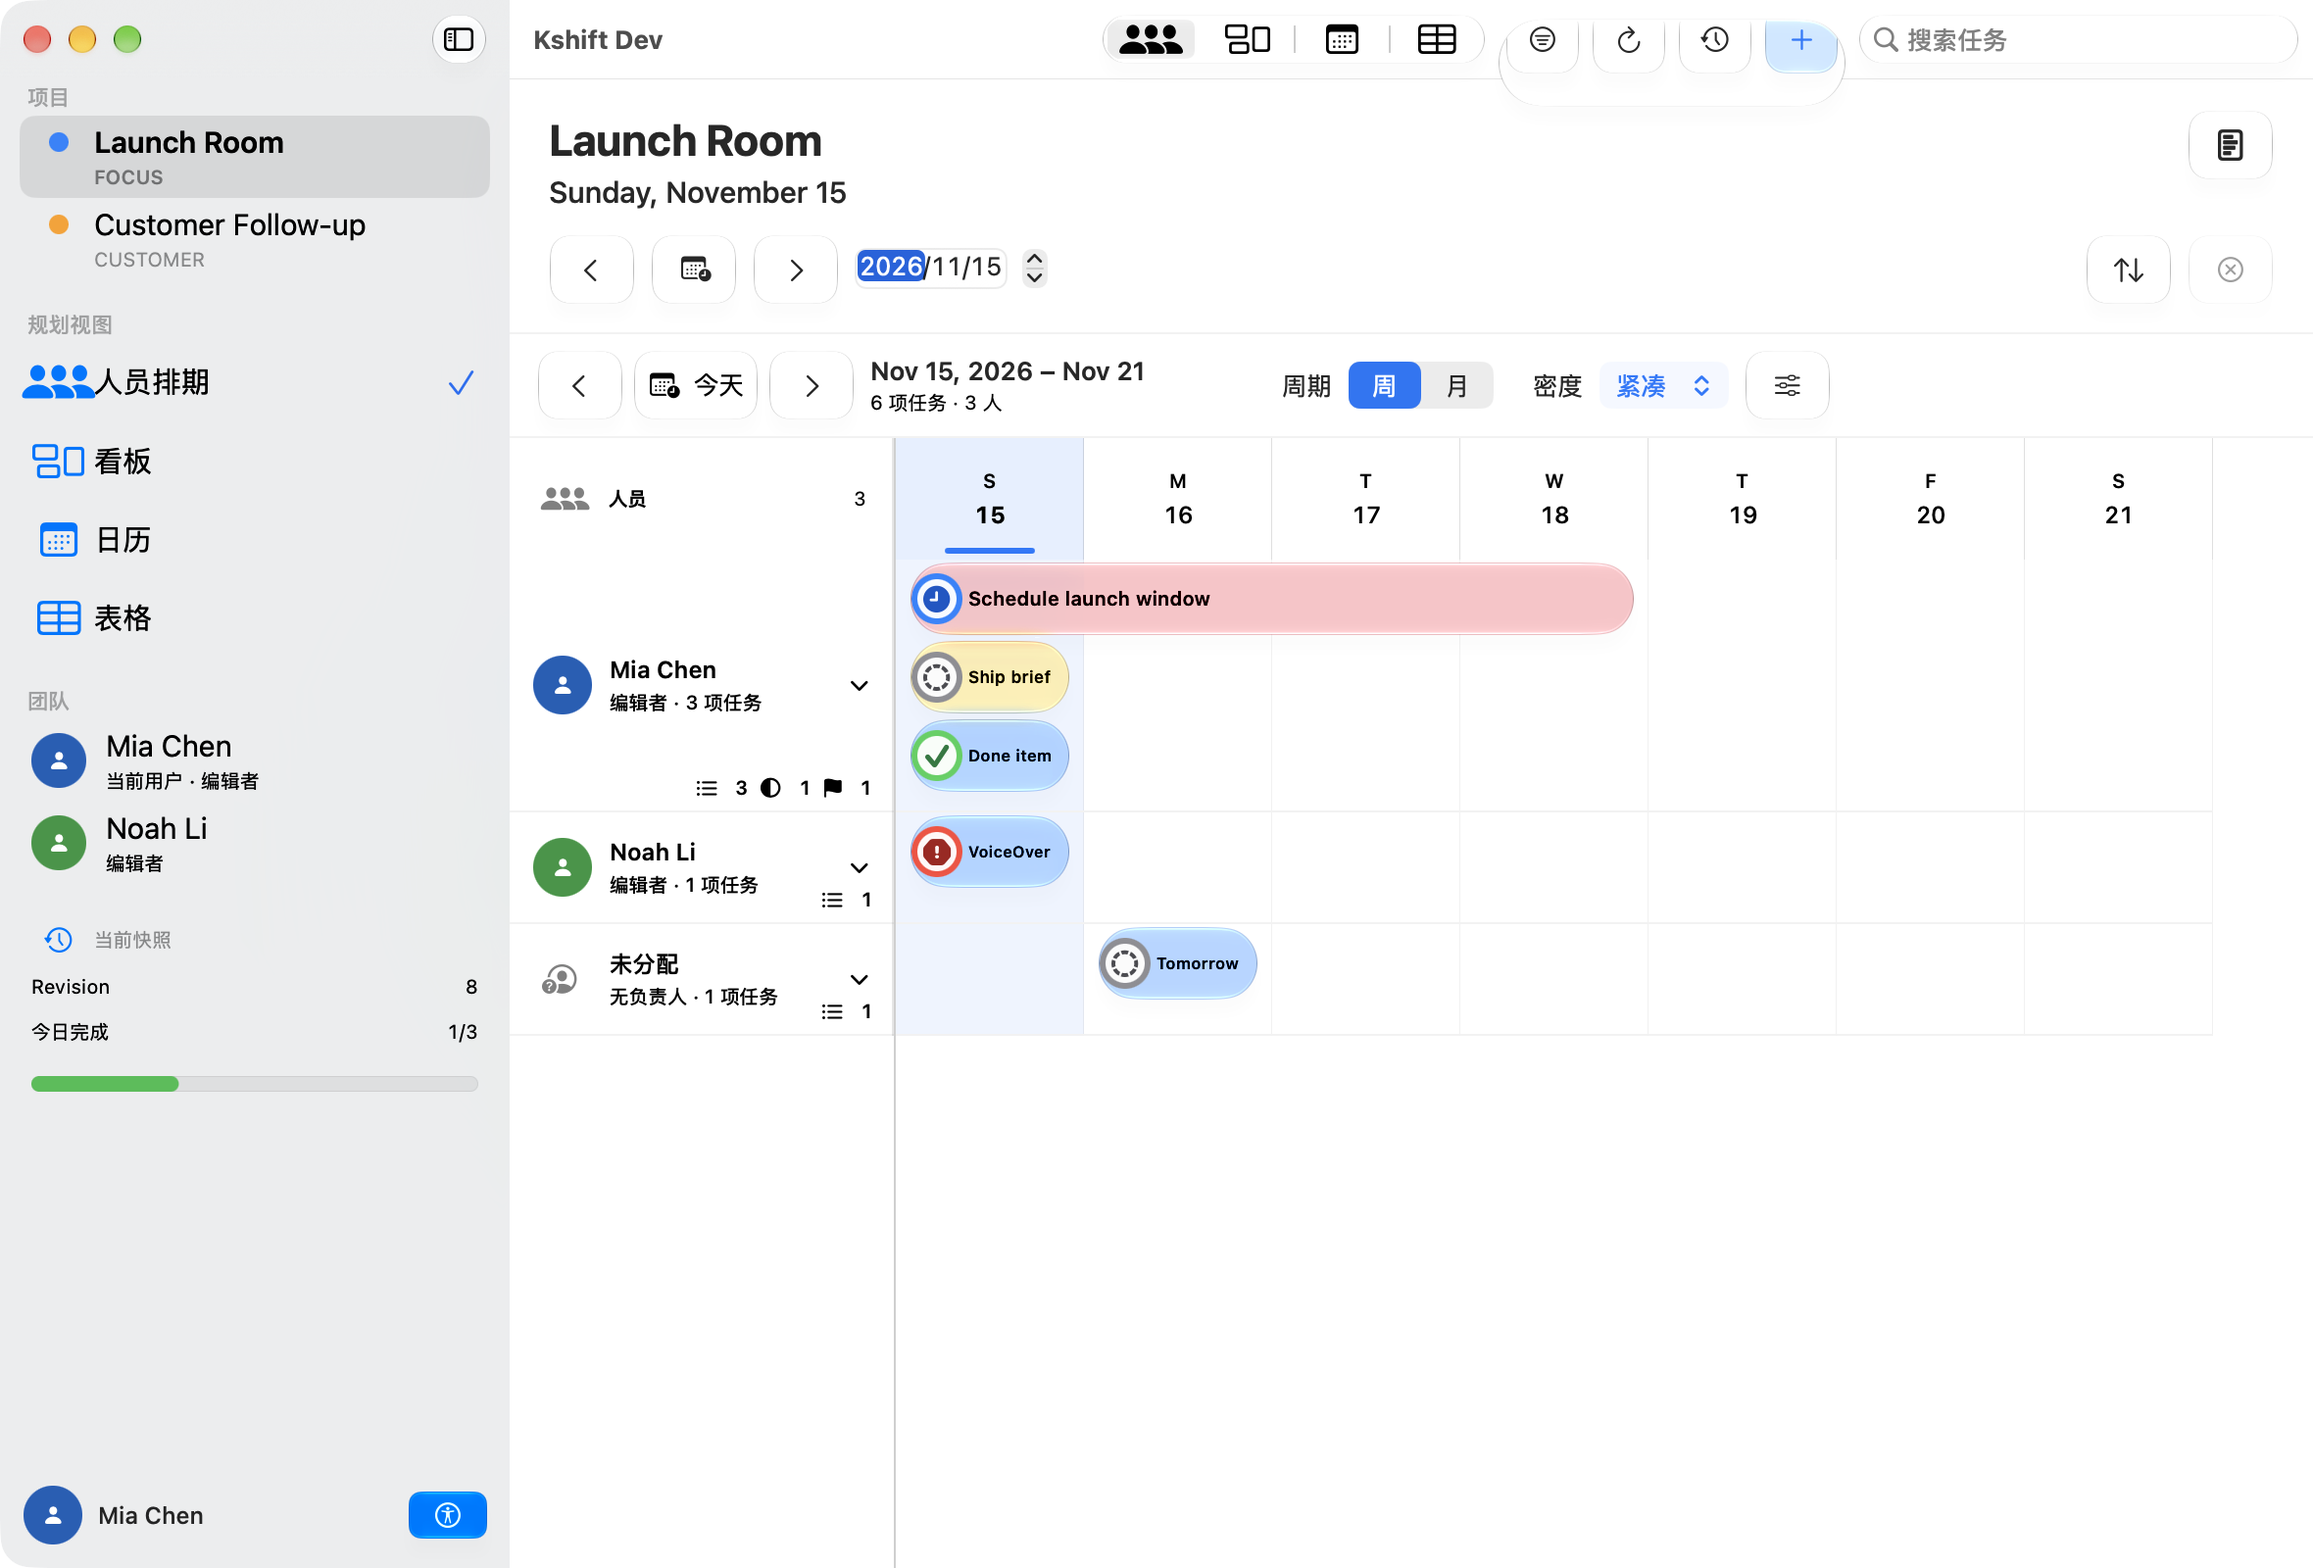
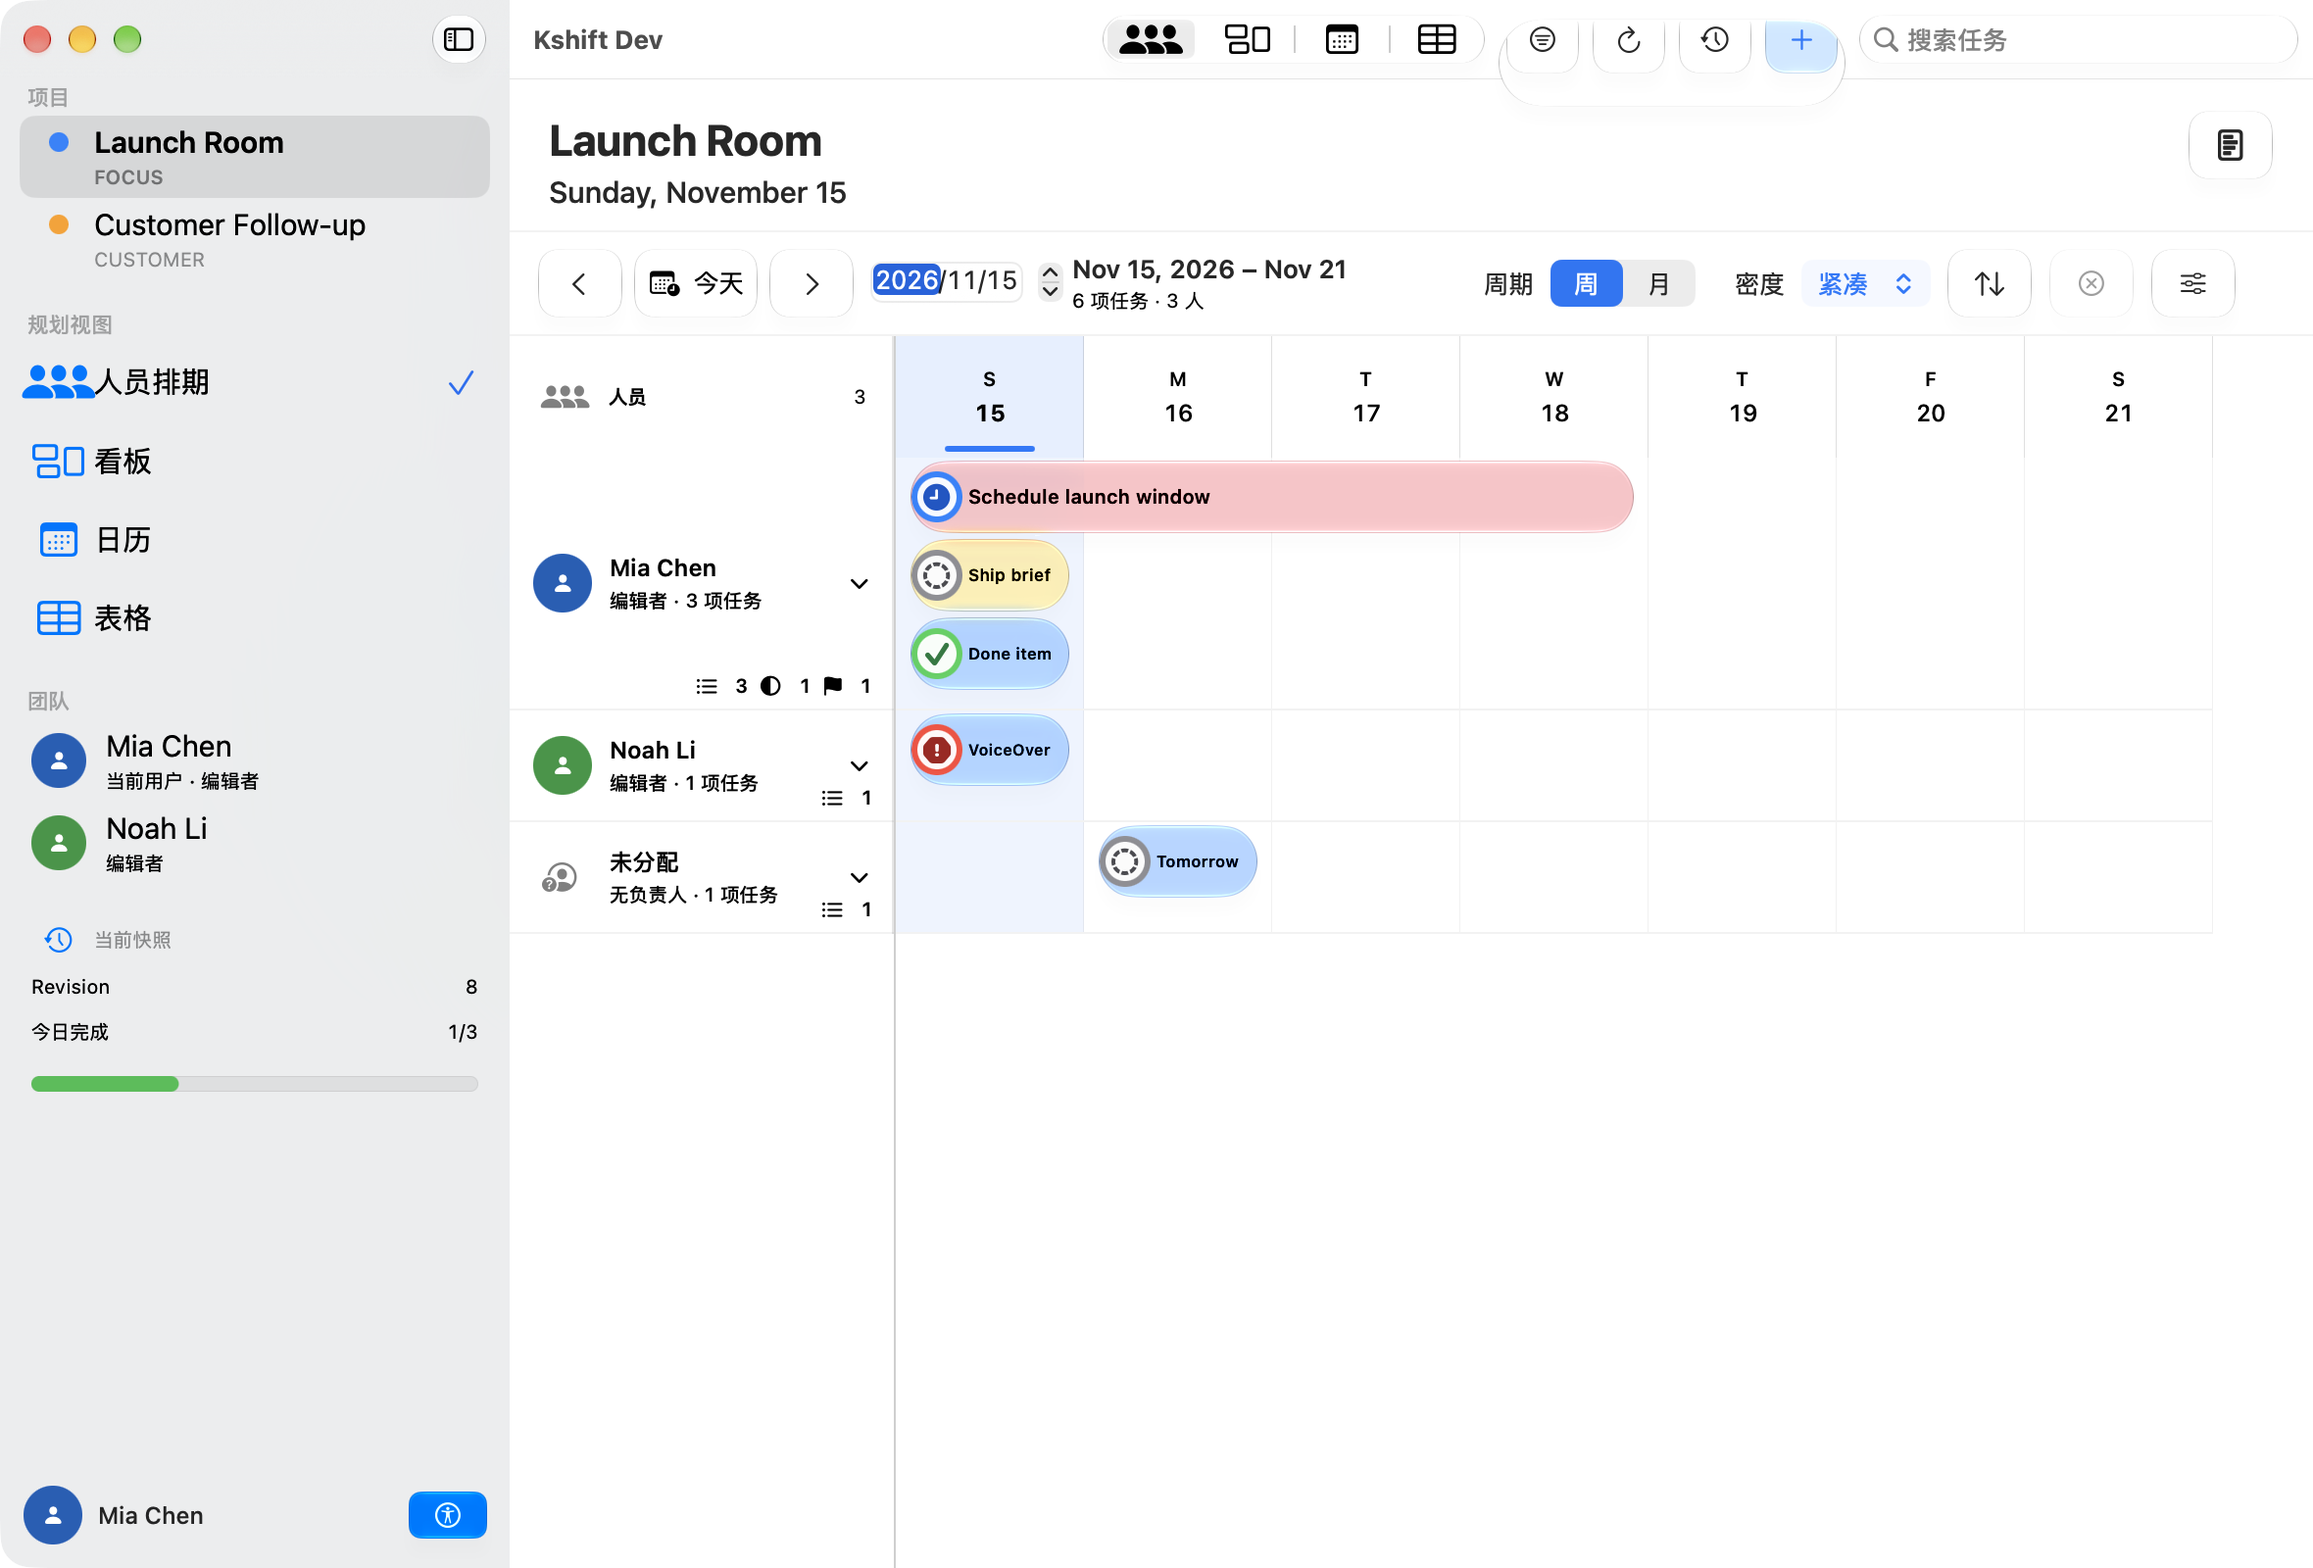
Consolidate regular schedule navigation

diff --git a/Sources/KshiftUI/PeopleSchedule/PeopleScheduleView.swift b/Sources/KshiftUI/PeopleSchedule/PeopleScheduleView.swift
@@ -126,6 +126,22 @@ struct PeopleScheduleView: View {
                     .accessibilityIdentifier("schedule-next")
                 }
 
+                if horizontalSizeClass == .regular {
+                    DatePicker(
+                        "选择日期",
+                        selection: Binding(
+                            get: { model.selectedDate },
+                            set: { model.selectDate($0) }
+                        ),
+                        displayedComponents: .date
+                    )
+                    .labelsHidden()
+                    .environment(\.timeZone, model.projectTimeZone)
+                    .fixedSize()
+                    .accessibilityLabel("选择日期")
+                    .accessibilityIdentifier("schedule-date-picker")
+                }
+
                 VStack(alignment: .leading, spacing: 2) {
                     Text(model.scheduleRangeTitle)
                         .font(.headline.weight(.semibold))
@@ -158,6 +174,10 @@ struct PeopleScheduleView: View {
                 .frame(width: 100)
                 .accessibilityLabel("显示密度")
                 .accessibilityIdentifier("schedule-density")
+
+                if horizontalSizeClass == .regular {
+                    PlannerUtilityControls(model: model)
+                }
 
                 Button {
                     isShowingSettings.toggle()

diff --git a/Sources/KshiftUI/PlannerView.swift b/Sources/KshiftUI/PlannerView.swift
@@ -175,10 +175,12 @@ struct PlannerView: View {
         if usesAccessibilityLayout {
             accessibilityControls
         } else if horizontalSizeClass == .regular {
-            HStack(spacing: 10) {
-                dateNavigation
-                Spacer()
-                utilityControls
+            if model.viewMode != .peopleSchedule {
+                HStack(spacing: 10) {
+                    dateNavigation
+                    Spacer()
+                    PlannerUtilityControls(model: model)
+                }
             }
         } else {
             VStack(alignment: .leading, spacing: 10) {
@@ -219,7 +221,7 @@ struct PlannerView: View {
             filterButton
             refreshButton
             Spacer()
-            utilityControls
+            PlannerUtilityControls(model: model)
         }
     }
 
@@ -304,7 +306,13 @@ struct PlannerView: View {
         .fixedSize()
     }
 
-    private var utilityControls: some View {
+
+}
+
+struct PlannerUtilityControls: View {
+    @ObservedObject var model: AppModel
+
+    var body: some View {
         HStack(spacing: 8) {
             Menu {
                 Picker("排序", selection: $model.sortOption) {

diff --git a/docs/evidence/people-schedule/glass-task-bar/README.md b/docs/evidence/people-schedule/glass-task-bar/README.md
@@ -51,18 +51,20 @@ description: 记录人员排期任务条使用原生染色 Liquid Glass、明亮
 - macOS work area 使用 `AppKitScrollWheelRouter`。Vertical wheel 驱动 vertical scroll view。Shift + wheel 驱动 horizontal timeline。
 - Blank day cell click 使用 clicked person 和 clicked date 创建 local `TaskDraft`。
 - Blank day cell click 打开 responsive `TaskEditorView` popover。Popover default size 为 400pt × 560pt。
+- Regular PeopleSchedule 隐藏 duplicated global date navigation row。
+- Single schedule toolbar 包含 date picker、period control、density、sort、clear selection 和 settings。
 
 ## 视觉证据
 
-截图使用固定日期 `2026-11-15` 和 Demo 数据。截图显示 P0、P1、P2 任务条在 Light Mode 和 Dark Mode 中保留优先级颜色、玻璃高光和单行紧凑布局。任务条保留统一的日期间距，不贴边绘制；单日标题完整显示或被 tail truncation 裁切；状态符号使用白芯高对比徽章，完成状态为绿色。Toolbar buttons 使用紧凑 neutral glass，不再出现 high-height accent-tinted blocks。Window toolbar 只保留 New Task as one pale-accent primary action。Shift + wheel moved the month timeline horizontally。Blank day cell click opened and saved a responsive task popover。
+截图使用固定日期 `2026-11-15` 和 Demo 数据。截图显示 P0、P1、P2 任务条在 Light Mode 和 Dark Mode 中保留优先级颜色、玻璃高光和单行紧凑布局。任务条保留统一的日期间距，不贴边绘制；单日标题完整显示或被 tail truncation 裁切；状态符号使用白芯高对比徽章，完成状态为绿色。Toolbar buttons 使用紧凑 neutral glass，不再出现 high-height accent-tinted blocks。Window toolbar 只保留 New Task as one pale-accent primary action。Regular PeopleSchedule uses one date and period navigation row。Shift + wheel moved the month timeline horizontally。Blank day cell click opened and saved a responsive task popover。
 
 | 文件 | 环境 | 内容 | SHA-256 |
 | --- | --- | --- | --- |
[8 lines of base64/hex data omitted]
 
 旧文件 `macos-task-bar-2026-11-14.png` 和 `ios-task-bar-2026-11-14.png` 是上一版 `.buttonStyle(.glass)` 候选。它们不表示最终视觉结论。
 

diff --git a/docs/specs/ui.md b/docs/specs/ui.md
@@ -148,6 +148,7 @@ flowchart TB
 - `UI-PPL-018`：Planner toolbar 和 PeopleSchedule toolbar 的 action buttons 必须使用 `KshiftCompactGlassButtonStyle`。Visual height 必须为 34pt。Outer hit target 不得小于 44pt。Content 必须使用 primary color。Glass 必须使用 neutral `.glassEffect(.regular.interactive())`。禁止 accent-tinted `.buttonStyle(.glass)` 和 oversized glass container。Schedule toolbar 的 vertical padding 必须为 4pt，minimum height 必须为 52pt。
 - `UI-PPL-019`：macOS work area 必须将 vertical wheel route 到 nearest vertical scroll view。Shift + wheel 必须 route 到 nearest horizontal scroll view。Wheel routing 必须保留 precise scrolling deltas。Event handling 必须位于 `KshiftAppKitAdapter`。
 - `UI-PPL-020`：Click blank schedule day cell 必须使用 clicked person 和 clicked date 创建 local `TaskDraft`。交互必须打开 `TaskEditorView` 的 `popover` presentation。Popover default size 必须为 400pt × 560pt。Popup layout 必须使用 responsive assignee row 和 two-date row。该交互不得设置 root `editorDraft` 或复用 sheet presentation。
+- `UI-PPL-021`：Regular horizontal-size PeopleSchedule 必须隐藏 PlannerView 的 global date navigation row。Schedule toolbar 必须是唯一 date 和 period navigation source。Schedule toolbar 必须包含 date picker、period control、density、sort、clear selection 和 settings。Compact horizontal-size class 必须保留 view picker 和 compact action bar。
 
 ## 8. 关联合同
 
